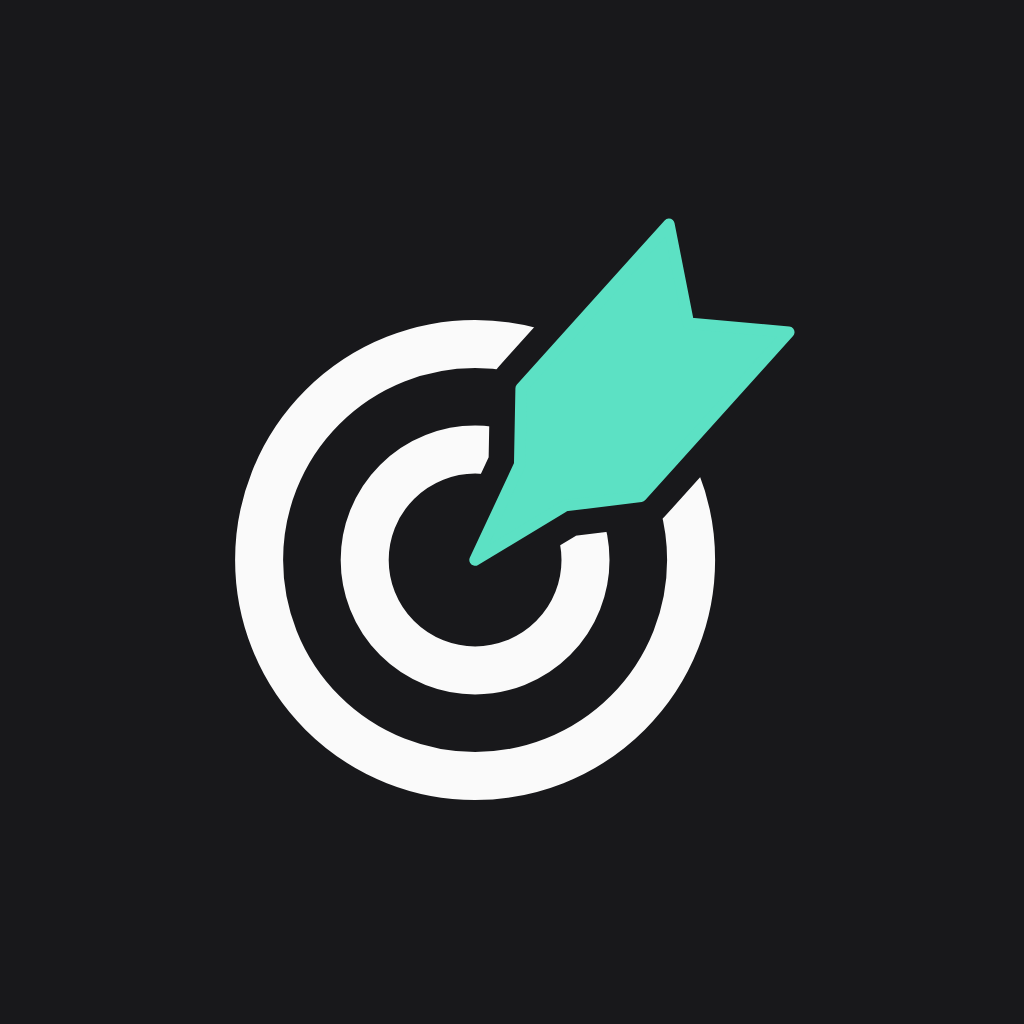
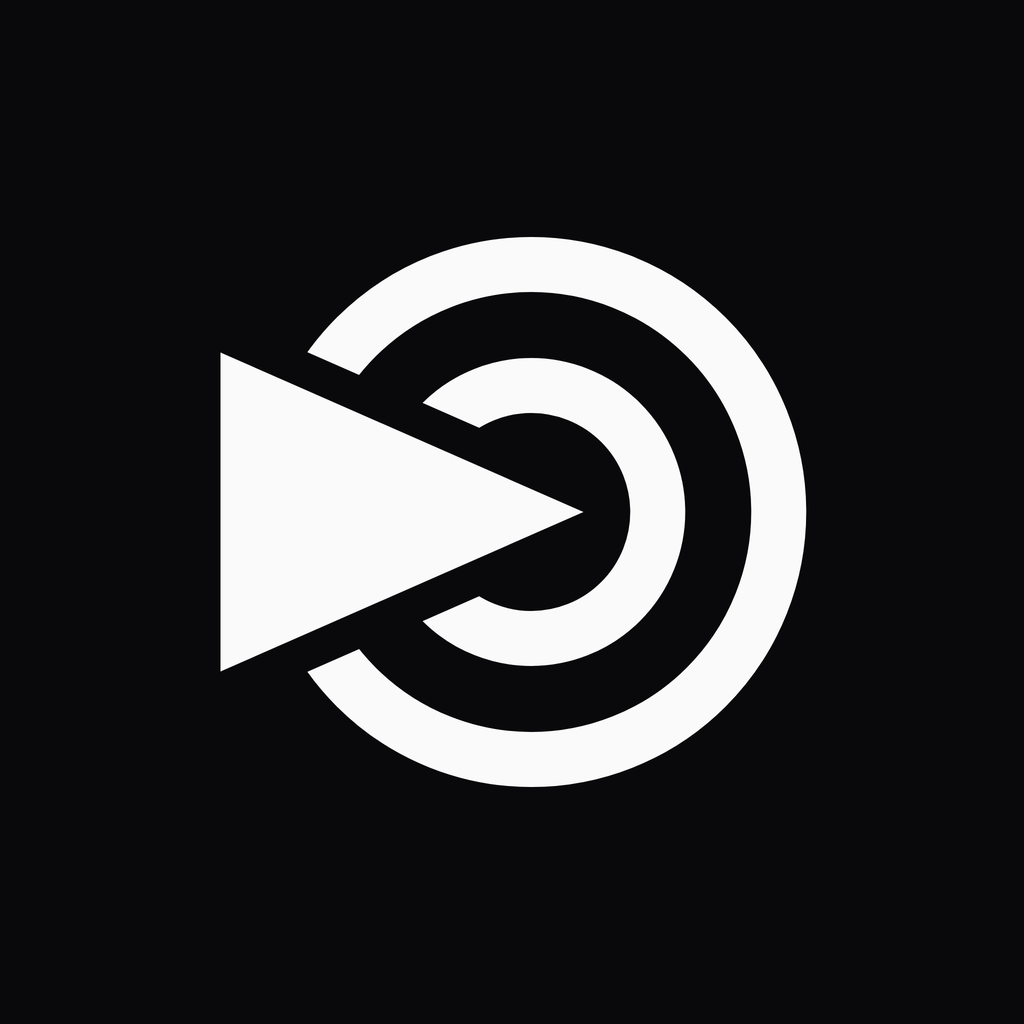
feat(web): apply monochrome theme and Play branding

Changed region(s): [[0.1875, 0.2188, 0.8125, 0.7812]]

diff --git a/apps/web/src/components/chrome.tsx b/apps/web/src/components/chrome.tsx
@@ -18,27 +18,27 @@ export function BrandMark({ className }: { className?: string }) {
   const maskId = useId()
   return <svg viewBox="0 0 64 64" fill="none" aria-hidden="true" className={className}>
     <defs>
-      <mask id={maskId} maskUnits="userSpaceOnUse" x="0" y="0" width="64" height="64">
-        <rect width="64" height="64" fill="#fff" />
-        <g transform="translate(26 38) rotate(42)"><path d="M0 0L-3.2 -10.5L-8.4 -16.5V-39.5L0 -33.2L8.4 -39.5V-16.5L3.2 -10.5Z" fill="#000" stroke="#000" strokeWidth="6.5" strokeLinejoin="round" /></g>
+      <mask id={maskId} maskUnits="userSpaceOnUse" x="-8" y="-8" width="80" height="80">
+        <rect x="-8" y="-8" width="80" height="80" fill="#fff" />
+        <path d="M 5.5,17.5 L 38.5,32 L 5.5,46.5 Z" fill="#000" stroke="#000" strokeWidth="6.4" strokeLinejoin="round" />
       </mask>
     </defs>
     <g mask={`url(#${maskId})`}>
-      <circle cx="26" cy="38" r="22.5" stroke="currentColor" strokeWidth="5" />
-      <circle cx="26" cy="38" r="11.5" stroke="currentColor" strokeWidth="5" />
+      <circle cx="33.75" cy="32" r="22.5" stroke="currentColor" strokeWidth="5" />
+      <circle cx="33.75" cy="32" r="11.5" stroke="currentColor" strokeWidth="5" />
     </g>
-    <g transform="translate(26 38) rotate(42)"><path d="M0 0L-3.2 -10.5L-8.4 -16.5V-39.5L0 -33.2L8.4 -39.5V-16.5L3.2 -10.5Z" className="fill-[#5ce1c4] stroke-[#5ce1c4] dark:fill-[#087f68] dark:stroke-[#087f68]" strokeWidth="1.2" strokeLinejoin="round" /></g>
+    <path d="M 5.5,17.5 L 38.5,32 L 5.5,46.5 Z" fill="currentColor" />
   </svg>
 }
 
 export function Brand({ compact = false }: { compact?: boolean }) {
-  return <Link to="/" className="group inline-flex min-h-11 items-center gap-2 font-display md:min-h-10 text-lg font-semibold tracking-[-0.06em]" aria-label="DartClip home"><span className="grid size-8 place-items-center rounded-md bg-[#18181b] text-white dark:bg-primary dark:text-primary-foreground"><BrandMark className="size-5" /></span>{!compact && <span>DartClip</span>}</Link>
+  return <Link to="/" className="group inline-flex min-h-11 items-center gap-2 font-display md:min-h-10 text-lg font-semibold tracking-[-0.06em]" aria-label="DartClip home"><span className="grid size-8 place-items-center rounded-md bg-primary text-primary-foreground"><BrandMark className="size-5" /></span>{!compact && <span>DartClip</span>}</Link>
 }
 
 export function Preferences() {
   const t = useT()
   const { language, setLanguage } = useLanguage()
-  return <div className="flex items-center gap-1"><DropdownMenu><DropdownMenuTrigger aria-label={t.language} title={t.language} className="inline-flex min-h-11 items-center justify-center gap-1.5 rounded-md px-2 md:min-h-10 md:px-2.5 text-muted-foreground transition-colors hover:bg-secondary hover:text-foreground focus-visible:outline-none focus-visible:ring-2 focus-visible:ring-ring"><Globe className="size-[18px]" aria-hidden="true"/><span aria-hidden="true" className="font-mono text-xs font-semibold leading-none tracking-wide">{language.toUpperCase()}</span><span className="sr-only">{t.language}: {language.toUpperCase()}</span></DropdownMenuTrigger><DropdownMenuContent align="end" className="min-w-40"><DropdownMenuLabel>{t.language}</DropdownMenuLabel><DropdownMenuSeparator/><DropdownMenuItem onSelect={() => setLanguage("en")}><span className="w-6 font-mono text-[10px]">EN</span>English{language === "en" && <span className="ml-auto text-primary">✓</span>}</DropdownMenuItem><DropdownMenuItem onSelect={() => setLanguage("id")}><span className="w-6 font-mono text-[10px]">ID</span>Bahasa Indonesia{language === "id" && <span className="ml-auto text-primary">✓</span>}</DropdownMenuItem></DropdownMenuContent></DropdownMenu><ThemeSelect /></div>
+  return <div className="flex items-center gap-1"><DropdownMenu><DropdownMenuTrigger aria-label={t.language} title={t.language} className="inline-flex min-h-11 items-center justify-center gap-1.5 rounded-md px-2 md:min-h-10 md:px-2.5 text-muted-foreground transition-colors hover:bg-secondary hover:text-foreground focus-visible:outline-none focus-visible:ring-2 focus-visible:ring-ring"><Globe className="size-[18px]" aria-hidden="true"/><span aria-hidden="true" className="font-mono text-xs font-semibold leading-none tracking-wide">{language.toUpperCase()}</span><span className="sr-only">{t.language}: {language.toUpperCase()}</span></DropdownMenuTrigger><DropdownMenuContent align="end" className="min-w-40"><DropdownMenuLabel>{t.language}</DropdownMenuLabel><DropdownMenuSeparator/><DropdownMenuItem onSelect={() => setLanguage("en")}><span className="w-6 font-mono text-[10px]">EN</span>English{language === "en" && <span className="ml-auto">✓</span>}</DropdownMenuItem><DropdownMenuItem onSelect={() => setLanguage("id")}><span className="w-6 font-mono text-[10px]">ID</span>Bahasa Indonesia{language === "id" && <span className="ml-auto">✓</span>}</DropdownMenuItem></DropdownMenuContent></DropdownMenu><ThemeSelect /></div>
 }
 
 function AccountMenu({ user }: { user: User }) {
@@ -48,7 +48,7 @@ function AccountMenu({ user }: { user: User }) {
   const name = user.name || user.email
   const initials = name.split(/[\s@._-]+/).filter(Boolean).slice(0, 2).map((part) => part[0]?.toUpperCase()).join("") || "U"
   const signOut = async () => { await api("/auth/logout", { method: "POST" }).catch(() => {}); client.clear(); await navigate({ to: "/login" }) }
-  return <DropdownMenu><DropdownMenuTrigger aria-label={`${t.accountMenu}: ${name}`} title={name} className="inline-flex size-11 items-center justify-center rounded-full md:size-10 transition-opacity hover:opacity-80 focus-visible:outline-none focus-visible:ring-2 focus-visible:ring-ring"><span className="grid size-8 place-items-center rounded-full border border-accent/30 bg-accent/15 font-display text-xs font-semibold tracking-wide text-accent">{initials}</span><span className="sr-only">{t.accountMenu}</span></DropdownMenuTrigger><DropdownMenuContent align="end" className="w-[min(16rem,calc(100vw-1.5rem))]"><DropdownMenuLabel className="px-2 py-2"><span className="flex items-center gap-3"><span className="grid size-9 shrink-0 place-items-center rounded-lg border border-accent/30 bg-accent/15 font-display text-sm font-semibold text-accent">{initials}</span><span className="min-w-0"><span className="block truncate text-sm font-medium text-foreground">{user.name || t.account}</span><span className="mt-0.5 block truncate text-xs font-normal text-muted-foreground">{user.email}</span></span></span></DropdownMenuLabel><DropdownMenuSeparator/><DropdownMenuItem asChild className="min-h-10"><Link to="/settings"><Settings className="size-4"/>{t.settings}</Link></DropdownMenuItem><DropdownMenuItem onSelect={() => void signOut()} className="min-h-10 text-destructive focus:bg-destructive/10 focus:text-destructive"><LogOut className="size-4"/>{t.signOut}</DropdownMenuItem></DropdownMenuContent></DropdownMenu>
+  return <DropdownMenu><DropdownMenuTrigger aria-label={`${t.accountMenu}: ${name}`} title={name} className="inline-flex size-11 items-center justify-center rounded-full md:size-10 transition-opacity hover:opacity-80 focus-visible:outline-none focus-visible:ring-2 focus-visible:ring-ring"><span className="grid size-8 place-items-center rounded-full bg-accent/10 font-display text-xs font-semibold tracking-wide text-accent">{initials}</span><span className="sr-only">{t.accountMenu}</span></DropdownMenuTrigger><DropdownMenuContent align="end" className="w-[min(16rem,calc(100vw-1.5rem))]"><DropdownMenuLabel className="px-2 py-2"><span className="flex items-center gap-3"><span className="grid size-9 shrink-0 place-items-center rounded-lg bg-accent/10 font-display text-sm font-semibold text-accent">{initials}</span><span className="min-w-0"><span className="block truncate text-sm font-medium text-foreground">{user.name || t.account}</span><span className="mt-0.5 block truncate text-xs font-normal text-muted-foreground">{user.email}</span></span></span></DropdownMenuLabel><DropdownMenuSeparator/><DropdownMenuItem asChild className="min-h-10"><Link to="/settings"><Settings className="size-4"/>{t.settings}</Link></DropdownMenuItem><DropdownMenuItem onSelect={() => void signOut()} className="min-h-10 text-destructive focus:bg-destructive/10 focus:text-destructive"><LogOut className="size-4"/>{t.signOut}</DropdownMenuItem></DropdownMenuContent></DropdownMenu>
 }
 
 export function Topbar({ user }: { user?: User }) {

diff --git a/apps/web/src/components/clip-card.tsx b/apps/web/src/components/clip-card.tsx
@@ -603,7 +603,7 @@ export function ClipPlayerDialog({ clip, onOpenChange, open, meta, onDelete, onP
                             aria-label={`${t.totalViews}: ${formatExactCount(viewsSummary.totalViews, language)}`}
                             className="inline-flex h-7 items-center gap-1 rounded-full border border-white/15 bg-black/55 px-2.5 font-mono text-[10px] font-semibold tabular-nums text-white backdrop-blur-md focus-visible:outline-none focus-visible:ring-2 focus-visible:ring-white/70 sm:h-6 sm:px-2"
                           >
-                            <Eye aria-hidden="true" className="size-3 text-accent"/>
+                            <Eye aria-hidden="true" className="size-3"/>
                             {formatCompactCount(viewsSummary.totalViews)}
                           </button>
                         </TooltipTrigger>
@@ -692,7 +692,7 @@ export function ClipPlayerDialog({ clip, onOpenChange, open, meta, onDelete, onP
               <span className="line-clamp-1 max-w-full text-center text-[10px] font-medium leading-tight text-white/90 drop-shadow">{t.clipDetails}</span>
             </button>
             <button type="button" onClick={copyCaption} aria-label={t.tiktokCopyCaption} title={t.tiktokCopyCaption} className="hidden w-full flex-col items-center gap-1 rounded-lg focus-visible:outline-none focus-visible:ring-2 focus-visible:ring-white/70 sm:flex">
-              <span className="grid size-11 place-items-center rounded-full border border-white/15 bg-black/55 text-white shadow-lg backdrop-blur-md transition-transform hover:scale-105">{copied ? <Check className="size-[18px] text-accent"/> : <Copy className="size-[18px]"/>}</span>
+              <span className="grid size-11 place-items-center rounded-full border border-white/15 bg-black/55 text-white shadow-lg backdrop-blur-md transition-transform hover:scale-105">{copied ? <Check className="size-[18px]"/> : <Copy className="size-[18px]"/>}</span>
               <span className="line-clamp-1 max-w-full text-center text-[10px] font-medium leading-tight text-white/90 drop-shadow">{t.tiktokCopyCaption}</span>
             </button>
             <Link to="/jobs/$jobId" params={{ jobId: activeClip.job.id }} onClick={() => onOpenChange(false)} aria-label={`${t.openJob}: ${title}`} title={t.openJob} className="hidden w-full flex-col items-center gap-1 rounded-lg focus-visible:outline-none focus-visible:ring-2 focus-visible:ring-white/70 sm:flex">
@@ -1039,7 +1039,7 @@ function PublishBadge({ publications }: { publications?: ClipPublication[] }) {
           {livePlatforms.includes("youtube") && <YouTubeMark className="size-3.5" />}
           {livePlatforms.includes("tiktok") && <TikTokMark className="size-3.5 [&_.fill-foreground]:fill-white" />}
           {livePlatforms.includes("instagram") && <InstagramMark className="size-3.5" />}
-          {busy ? <LoaderCircle aria-hidden="true" className="size-3 animate-spin text-white/80" /> : <CircleCheck aria-hidden="true" className="size-3 text-accent" />}
+          {busy ? <LoaderCircle aria-hidden="true" className="size-3 animate-spin text-white/80" /> : <CircleCheck aria-hidden="true" className="size-3" />}
           <span className="sr-only">{liveLabel}</span>
         </span>
       )}

diff --git a/apps/web/src/styles.css b/apps/web/src/styles.css
@@ -127,66 +127,66 @@
 }
 
 :root {
-  --monitor-empty-center: #f4f4f5;
+  --monitor-empty-center: #f1f1f3;
   --monitor-empty-edge: #e4e4e7;
-  --background: #ffffff;
-  --foreground: #18181b;
+  --background: #f7f7f8;
+  --foreground: #09090b;
   --card: #ffffff;
-  --card-foreground: #18181b;
+  --card-foreground: #09090b;
   --popover: #ffffff;
-  --popover-foreground: #18181b;
-  --primary: #087f68;
-  --primary-foreground: #ffffff;
-  --secondary: #f4f4f5;
-  --secondary-foreground: #27272a;
-  --muted: #f4f4f5;
+  --popover-foreground: #09090b;
+  --primary: #18181b;
+  --primary-foreground: #fafafa;
+  --secondary: #efeff1;
+  --secondary-foreground: #18181b;
+  --muted: #efeff1;
   --muted-foreground: #52525b;
-  --accent: #087f68;
-  --accent-foreground: #ffffff;
+  --accent: #18181b;
+  --accent-foreground: #fafafa;
   --destructive: #b42318;
   --border: #e4e4e7;
-  --input: #a1a1aa;
-  --ring: #087f68;
-  --sidebar: #fafafa;
+  --input: #d4d4d8;
+  --ring: #52525b;
+  --sidebar: #f4f4f6;
   --sidebar-foreground: #18181b;
-  --sidebar-primary: #087f68;
-  --sidebar-primary-foreground: #ffffff;
-  --sidebar-accent: #f4f4f5;
-  --sidebar-accent-foreground: #18181b;
-  --sidebar-border: #e4e4e7;
-  --sidebar-ring: #087f68;
+  --sidebar-primary: #18181b;
+  --sidebar-primary-foreground: #fafafa;
+  --sidebar-accent: #e8e8ec;
+  --sidebar-accent-foreground: #09090b;
+  --sidebar-border: #09090b14;
+  --sidebar-ring: #52525b;
   --radius: 6px;
 }
 
 .dark {
-  --monitor-empty-center: #202126;
-  --monitor-empty-edge: #101114;
+  --monitor-empty-center: #18181c;
+  --monitor-empty-edge: #0e0e11;
   --background: #09090b;
   --foreground: #fafafa;
-  --card: #121214;
+  --card: #111114;
   --card-foreground: #fafafa;
-  --popover: #18181b;
+  --popover: #16161a;
   --popover-foreground: #fafafa;
-  --primary: #fafafa;
+  --primary: #e4e4e7;
   --primary-foreground: #09090b;
-  --secondary: #18181b;
+  --secondary: #18181c;
   --secondary-foreground: #fafafa;
-  --muted: #18181b;
+  --muted: #18181c;
   --muted-foreground: #a1a1aa;
-  --accent: #5ce1c4;
+  --accent: #e4e4e7;
   --accent-foreground: #09090b;
   --destructive: #ef4444;
-  --border: #27272a;
-  --input: #52525b;
-  --ring: #5ce1c4;
-  --sidebar: #09090b;
+  --border: #fafafa14;
+  --input: #3f3f46;
+  --ring: #e4e4e7;
+  --sidebar: #0c0c0f;
   --sidebar-foreground: #fafafa;
-  --sidebar-primary: #fafafa;
+  --sidebar-primary: #e4e4e7;
   --sidebar-primary-foreground: #09090b;
-  --sidebar-accent: #18181b;
+  --sidebar-accent: #18181c;
   --sidebar-accent-foreground: #fafafa;
-  --sidebar-border: #27272a;
-  --sidebar-ring: #5ce1c4;
+  --sidebar-border: #fafafa12;
+  --sidebar-ring: #e4e4e7;
 }
 
 .recent-clips-swiper { --swiper-theme-color: var(--accent); --swiper-pagination-bullet-inactive-color: var(--muted-foreground); --swiper-pagination-bullet-inactive-opacity: .55; }

diff --git a/apps/web/src/routes/__root.tsx b/apps/web/src/routes/__root.tsx
@@ -21,7 +21,7 @@ const getPreferences = createServerFn({ method: "GET" }).handler(() => {
 
 export const Route = createRootRoute({
   beforeLoad: () => getPreferences(),
-  head: () => ({ meta: [{ charSet: "utf-8" }, { name: "viewport", content: "width=device-width, initial-scale=1, viewport-fit=cover" }, { name: "theme-color", content: "#18181b" }, { title: "DartClip — Make the moments worth sharing." }, { name: "description", content: "A calmer way to turn long videos into short clips." }], links: [{ rel: "icon", href: "/favicon.ico?v=2", sizes: "any" }, { rel: "icon", href: "/favicon.svg?v=2", type: "image/svg+xml" }, { rel: "apple-touch-icon", href: "/apple-touch-icon.png?v=2" }, { rel: "manifest", href: "/manifest.json" }, { rel: "stylesheet", href: appCss }] }),
+  head: () => ({ meta: [{ charSet: "utf-8" }, { name: "viewport", content: "width=device-width, initial-scale=1, viewport-fit=cover" }, { name: "theme-color", content: "#09090b" }, { title: "DartClip — Make the moments worth sharing." }, { name: "description", content: "A calmer way to turn long videos into short clips." }], links: [{ rel: "icon", href: "/favicon.ico?v=3", sizes: "any" }, { rel: "icon", href: "/favicon.svg?v=3", type: "image/svg+xml" }, { rel: "apple-touch-icon", href: "/apple-touch-icon.png?v=3" }, { rel: "manifest", href: "/manifest.json" }, { rel: "stylesheet", href: appCss }] }),
   component: RootComponent,
   shellComponent: ({ children }) => <html lang="en"><head><HeadContent /><script dangerouslySetInnerHTML={{ __html: `(()=>{try{const c=document.cookie.split('; ').find(x=>x.startsWith('clipper_theme='))?.split('=')[1]||'system';const d=c==='dark'||(c==='system'&&matchMedia('(prefers-color-scheme: dark)').matches);document.documentElement.classList.toggle('dark',d)}catch{}})()` }} /></head><body>{children}<Scripts /></body></html>,
   notFoundComponent: NotFound,

diff --git a/apps/web/src/components/watermark-overlay.tsx b/apps/web/src/components/watermark-overlay.tsx
@@ -214,7 +214,7 @@ export function WatermarkOverlay({
             {/* Bottom caption & navigation bar */}
             <div className="absolute inset-x-0 bottom-0 h-[22%] border-t border-dashed border-rose-400/50 bg-rose-500/18" />
             {/* Safe rectangle indicator badge */}
-            <span className="absolute left-1.5 top-[14.5%] rounded-sm border border-emerald-400/40 bg-black/60 px-1.5 py-0.5 font-mono text-[9px] font-semibold tracking-wider text-emerald-200 backdrop-blur-[2px]">
+            <span className="absolute left-1.5 top-[14.5%] rounded-sm border border-zinc-300/35 bg-black/65 px-1.5 py-0.5 font-mono text-[9px] font-semibold tracking-wider text-zinc-100 backdrop-blur-[2px]">
               {t.safeZoneBadge}
             </span>
           </div>

diff --git a/apps/web/src/components/watermark-media.tsx b/apps/web/src/components/watermark-media.tsx
@@ -202,7 +202,7 @@ export function WatermarkMedia({ watermark, chromaKey, className = "", compact =
         style={ratio ? { aspectRatio: ratio } : undefined}
       >
         <div className="flex items-center gap-1">
-          <Film aria-hidden="true" className={compact ? "size-3 text-accent" : "size-3.5 text-accent"} />
+          <Film aria-hidden="true" className={compact ? "size-3" : "size-3.5"} />
           <Badge variant="secondary" className="h-4 rounded-sm bg-black/60 px-1 font-mono text-[9px] text-white">
             {ext}
           </Badge>

diff --git a/apps/web/src/components/subtitle-overlay.tsx b/apps/web/src/components/subtitle-overlay.tsx
@@ -191,7 +191,7 @@ export function SubtitleOverlay({ style, twoSpeakers = false, frameHeightPx, onC
               : "opacity-0 group-hover/sub:opacity-100 group-focus-visible/sub:opacity-100"
           }`}
         >
-          <GripHorizontal className="size-3 text-accent" />
+          <GripHorizontal className="size-3" />
           <span>Y {yPercent}%</span>
         </span>
         <span
